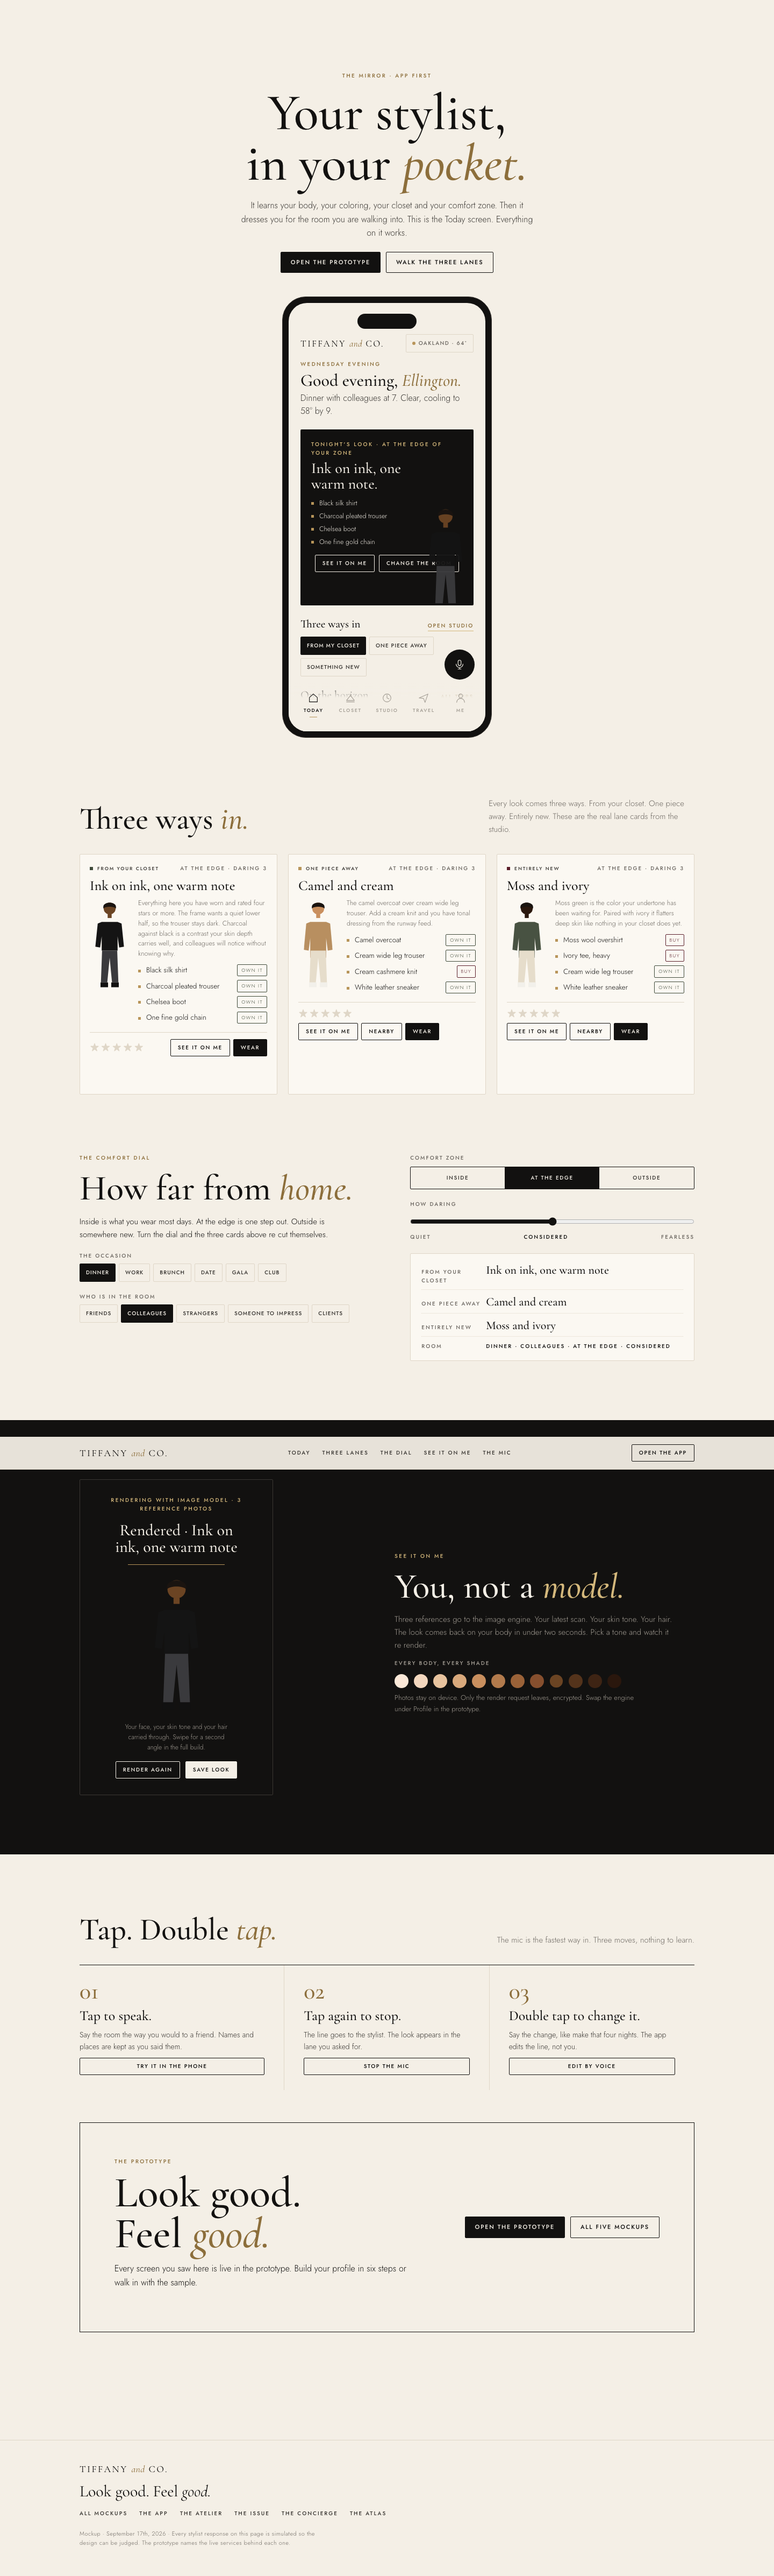
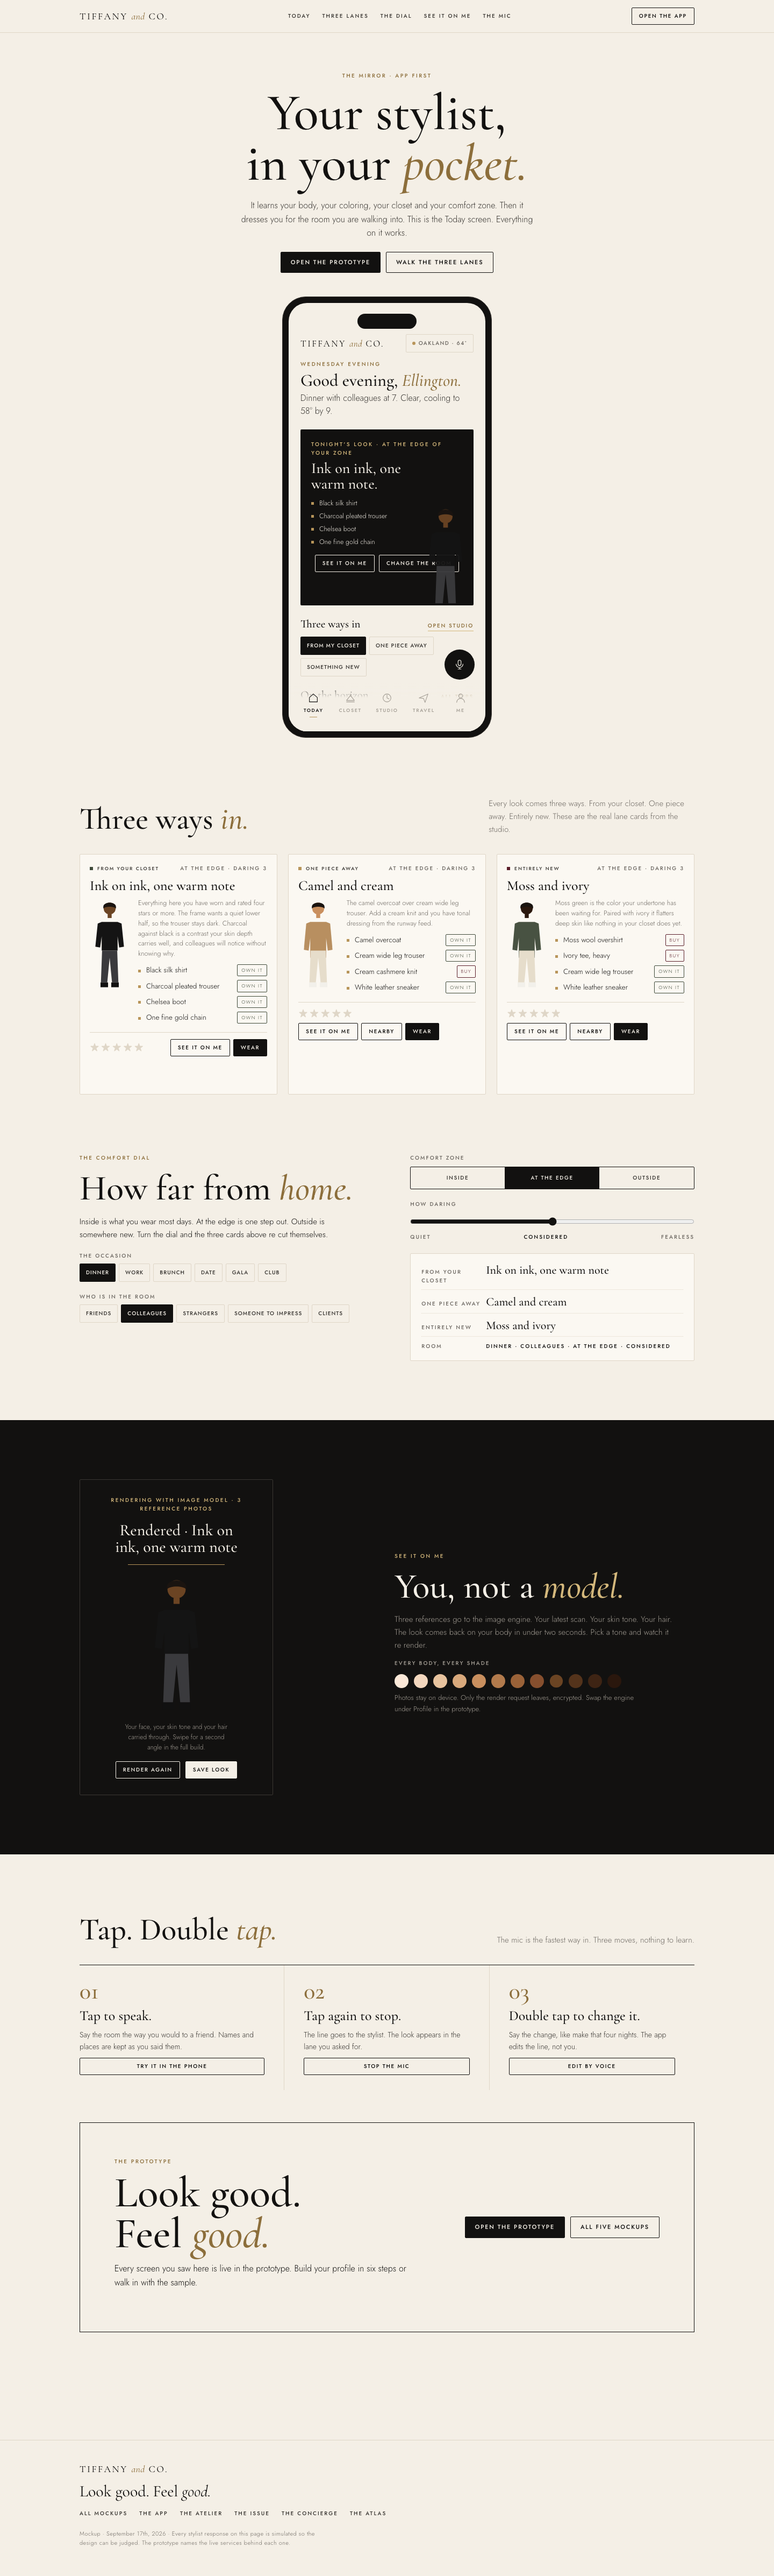
Mirror: do not jump to the render section on load

Changed region(s): [[0.0, 0.5603, 1.0, 0.5914]]

diff --git a/mockups/mirror.html b/mockups/mirror.html
@@ -364,12 +364,12 @@ $('#daring').addEventListener('change',()=>renderLanes());
 renderLanes();
 /* render */
 let rt;
-function seeOnMe(k){curLane=k||'own';const ov=$('#overlay');ov.classList.remove('done');$('#ov-h').textContent='Fitting the look to you';$('#ov-p').textContent='Your scan, your skin tone and your hair are sent as references so the render is you, not a model.';$('#ov-fig').innerHTML='';clearTimeout(rt);
-  if(location.hash!=='#render')location.hash='#render';
+function seeOnMe(k,quiet){curLane=k||'own';const ov=$('#overlay');ov.classList.remove('done');$('#ov-h').textContent='Fitting the look to you';$('#ov-p').textContent='Your scan, your skin tone and your hair are sent as references so the render is you, not a model.';$('#ov-fig').innerHTML='';clearTimeout(rt);
+  if(!quiet&&location.hash!=='#render')location.hash='#render';
   rt=setTimeout(()=>{const f=F[curLane][zone];$('#ov-fig').innerHTML=figure(f[0],f[1],f[2],skin,'',f[5]||'');ov.classList.add('done');$('#ov-h').textContent='Rendered · '+T[curLane][zone];$('#ov-p').textContent='Your face, your skin tone and your hair carried through. Swipe for a second angle in the full build.'},1700)}
 $('#swatches').innerHTML=SKINS.map(c=>`<button type="button" style="background:${c}" class="${c===skin?'on':''}" aria-label="Skin tone ${c}"></button>`).join('');
 $$('#swatches button').forEach((b,i)=>b.onclick=()=>{skin=SKINS[i];$$('#swatches button').forEach(x=>x.classList.toggle('on',x===b));seeOnMe(curLane)});
-seeOnMe('own');
+seeOnMe('own',true);
 /* mic */
 const mic=$('#mic'),sheet=$('#sheet');let listening=false,taps=0,tapT,simT,transcript='';
 const SIM='I am going to Las Vegas for three nights on the 25th. Night one is a rooftop dinner, night two is a show, night three is a club.';
